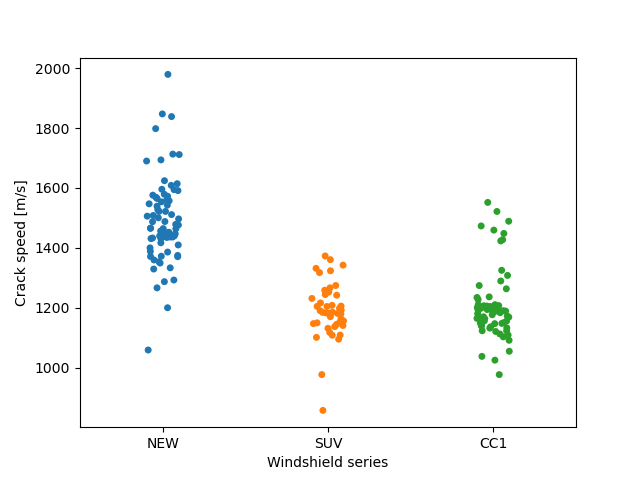
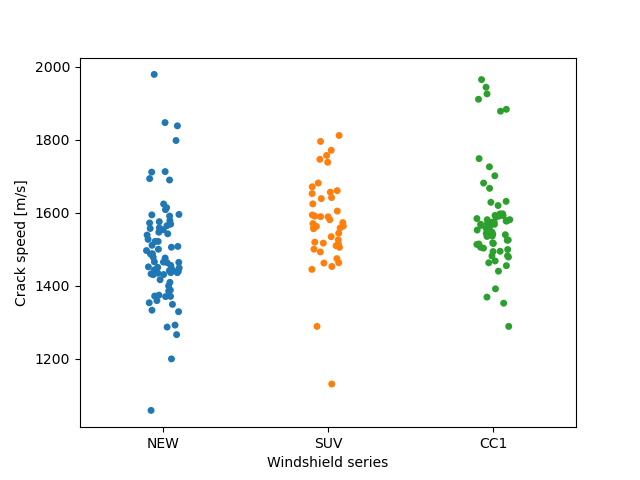
Updated data to correct for higher FPS count for SUV and CC1

diff --git a/crack.py b/crack.py
@@ -32,10 +32,11 @@ for filename,df in df_dict.items():
     data.append((avg_speed(df), split[0],split[1],split[2],split[3],split[4],split[5]))
 
 speeds = pd.DataFrame(data, columns=["avg_speed","ws_type","ws_num","crack_num","camera","crack_type","person"])
-
+speeds.loc[speeds["ws_type"]=="SUV", "avg_speed"] *= 33000/25000
+speeds.loc[speeds["ws_type"]=="CC1", "avg_speed"] *= 33000/25000
 view = speeds.loc[speeds.avg_speed < 2000]
-#sns.boxplot(x="ws_type", y="avg_speed", data=view, whis=np.inf)
-sns.stripplot(x="ws_type", y="avg_speed", data=view)
+sns.boxplot(x="ws_type", y="avg_speed", data=view, whis=np.inf)
+#sns.stripplot(x="ws_type", y="avg_speed", data=view)
 plt.xlabel("Windshield series")
 plt.ylabel("Crack speed [m/s]")
 plt.show()
